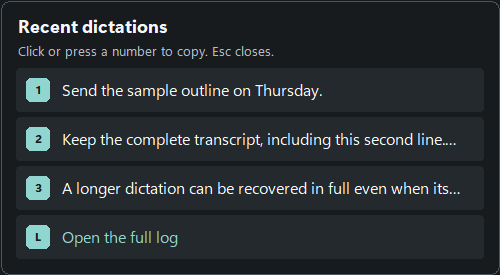
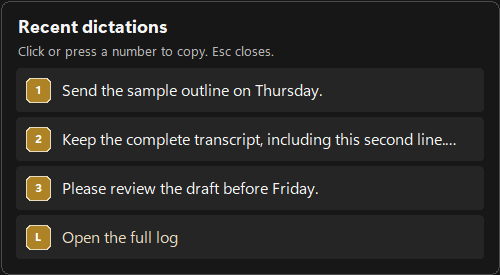
Apply shared gold theme and refresh release documentation

diff --git a/recents.py b/recents.py
@@ -9,7 +9,7 @@ import tkinter as tk
 import tkinter.font as tkfont
 from ctypes import wintypes
 
-from theme import ACCENT, EDGE, HOVER, MUTED, ROW
+from theme import ACCENT, ACTION, ACTION_TEXT, EDGE, HOVER, MUTED, ROW
 from theme import SURFACE as INK
 from theme import TEXT as PAPER
 
@@ -226,15 +226,16 @@ class Recents:
                     cx + chip,
                     cy + chip // 2,
                     chip // 2,
-                    fill=ACCENT,
-                    outline="",
+                    fill=ACTION,
+                    outline=ACCENT,
+                    width=1,
                     tags=tag,
                 )
                 c.create_text(
                     cx + chip // 2,
                     cy - int(1 * s),
                     text=chip_char,
-                    fill=INK,
+                    fill=ACTION_TEXT,
                     font=(disp_family, -int(12 * s), "bold"),
                     tags=tag,
                 )

diff --git a/theme.py b/theme.py
@@ -1,12 +1,14 @@
 """Neutral native UI tokens shared by the tray and recovery popup."""
 
-SURFACE = "#181B1E"
-ROW = "#24292E"
-HOVER = "#323A41"
-EDGE = "#4B555E"
-TEXT = "#F5F7F8"
-MUTED = "#B3BDC5"
-ACCENT = "#90D5CF"
-IDLE = "#66717A"
-RECORDING = "#0F766E"
-PROCESSING = "#2563A6"
+SURFACE = "#171717"
+ROW = "#252525"
+HOVER = "#333333"
+EDGE = "#4B4B4B"
+TEXT = "#F5F5F5"
+MUTED = "#B8B8B8"
+ACCENT = "#E8DBBE"
+ACTION = "#AD8326"
+ACTION_TEXT = "#FFFFFF"  # Approved brand pairing; not an AA small-text contrast claim.
+IDLE = "#777777"
+RECORDING = ACTION
+PROCESSING = ACCENT

diff --git a/dictate.py b/dictate.py
@@ -76,8 +76,9 @@ def _icon_image(color: str) -> Image.Image:
     img = Image.new("RGBA", (64, 64), (0, 0, 0, 0))
     d = ImageDraw.Draw(img)
     d.ellipse((8, 8, 56, 56), fill=color)
-    d.rounded_rectangle((26, 18, 38, 38), radius=6, fill="#FEFCFD")  # mic body
-    d.line((32, 40, 32, 48), fill="#FEFCFD", width=4)  # mic stem
+    glyph = theme.SURFACE if color == COLOR_PROCESSING else theme.TEXT
+    d.rounded_rectangle((26, 18, 38, 38), radius=6, fill=glyph)  # mic body
+    d.line((32, 40, 32, 48), fill=glyph, width=4)  # mic stem
     return img
 
 

diff --git a/DESIGN.md b/DESIGN.md
@@ -2,17 +2,19 @@
 name: Dictate
 description: Native Windows tray utility with a compact transcript recovery popup.
 colors:
-  surface: "#181B1E"
-  row: "#24292E"
-  hover: "#323A41"
-  edge: "#4B555E"
-  text: "#F5F7F8"
-  muted: "#B3BDC5"
-  accent: "#90D5CF"
-  idle: "#66717A"
-  recording: "#0F766E"
-  processing: "#2563A6"
-  tray-glyph: "#FEFCFD"
+  surface: "#171717"
+  row: "#252525"
+  hover: "#333333"
+  edge: "#4B4B4B"
+  text: "#F5F5F5"
+  muted: "#B8B8B8"
+  accent: "#E8DBBE"
+  action: "#AD8326"
+  action-text: "#FFFFFF"
+  idle: "#777777"
+  recording: "#AD8326"
+  processing: "#E8DBBE"
+  tray-glyph: "#F5F5F5"
 typography:
   heading:
     fontFamily: "Segoe UI Variable Display, Segoe UI"
@@ -66,8 +68,8 @@ components:
     rounded: "{rounded.row}"
     height: "44px"
   shortcut:
-    backgroundColor: "{colors.accent}"
-    textColor: "{colors.surface}"
+    backgroundColor: "{colors.action}"
+    textColor: "{colors.action-text}"
     typography: "{typography.shortcut}"
     rounded: "{rounded.shortcut}"
     size: "24px"
@@ -77,15 +79,17 @@ components:
 
 ## Overview
 
-Neutral dark gray surfaces, white text and restrained teal and blue accents. The designed Windows surface is the Recent dictations popup and its tray icon. The separate macOS implementation is headless; this document does not prescribe a macOS screen.
+Neutral dark gray surfaces, white text and SRC gold shortcut chips share the approved theme with Silent Type and Snip. The designed Windows surface is the Recent dictations popup and its tray icon. The separate macOS implementation is headless; this document does not prescribe a macOS screen.
 
-Extracted from `theme.py`, `recents.py`, `dictate.py` and the normal, empty, ten-entry and scaled popup captures in `.impeccable/review/`. `PRODUCT.md` records the approved direction.
+The Windows appearance is owned by theme.py, recents.py and dictate.py. PRODUCT.md records the approved direction. Existing geometry and recovery behavior remain intact.
 
 ## Colors
 
-The accent identifies keyboard shortcuts and the full-log action. Surface, row and hover distinguish the popup from its interactive rows; edge outlines the popup. Text is used for transcripts and the heading, muted for instructions and the empty state.
+Action gold fills keyboard shortcut chips, with white labels and light-gold edges. The light-gold accent identifies the full-log action. Surface, row and hover distinguish the popup from its interactive rows; edge outlines the popup. Text is used for transcripts and the heading, muted for instructions and the empty state.
 
-Tray states use idle gray, recording teal and processing blue, with the tray-glyph color for the microphone. Tooltip text names each state. Windows renders the context menu, scrollbar and notifications using its own controls.
+Tray states use idle gray, recording gold and processing light gold. The microphone uses tray-glyph white on idle and recording, and surface charcoal on processing. Tooltip text names each state. Windows renders the context menu, scrollbar and notifications using its own controls.
+
+White labels on solid gold retain the approved brand exception. This pairing does not establish ordinary small-text contrast compliance. This popup changes the neutral row fill on hover; it has no primary-button hover state.
 
 ## Typography
 
@@ -107,7 +111,7 @@ No custom shadow or animated transition. A thin outline, darker background and l
 
 ## Shapes
 
-Rounded shapes are Tk smooth polygons with the frontmatter radius parameters, not CSS rounded rectangles. Shortcut chips are small rounded squares. The tray graphic is a transparent 64 × 64 image containing a colored circle and white microphone. The transparent window key is a rendering implementation detail, not a palette color.
+Rounded shapes are Tk smooth polygons with the frontmatter radius parameters, not CSS rounded rectangles. Shortcut chips are small rounded squares. The tray graphic is a transparent 64 × 64 image containing a state-colored circle and a contrasting microphone. The transparent window key is a rendering implementation detail, not a palette color.
 
 ## Components
 
@@ -117,12 +121,13 @@ Rounded shapes are Tk smooth polygons with the frontmatter radius parameters, no
 - **Popup:** Escape or loss of focus closes it. Opening and dismissal do not copy text. There is no implemented Tab-driven row focus indicator or screen-reader semantics for the drawn canvas items; keyboard shortcuts are not a claim of full accessibility.
 - **Tray:** colored microphone circle and state tooltip; native context menu. No bespoke settings form or navigation screen exists.
 
-The sidecar contains visual HTML previews of the native components. Those previews are illustrative; Tk source and native captures determine actual geometry and behavior.
+The sidecar describes the native components. Tk source and native captures determine their geometry and behavior.
 
 ## Do's and Don'ts
 
 - Do retain the neutral palette, system type and restrained state colors.
 - Do keep every transcript and the full-log action reachable when the popup exceeds the work area.
 - Do preserve full transcript text behind shortened previews.
-- Don't add personal brand colors, decorative marketing imagery or an unrelated product flow.
+- Do preserve gold chips, light-gold links and neutral hovered rows through redraws.
+- Don't add decorative marketing imagery or an unrelated product flow.
 - Don't treat screenshots, keyboard shortcuts or system-DPI tests as full accessibility or mixed-DPI hardware certification.

diff --git a/README.md b/README.md
@@ -12,7 +12,7 @@ The separate **[macOS port](macos/README.md) is by [Diane Green](https://github.
 
 Requires **Windows 10/11 x64, 64-bit Python 3.12, internet access and your own Groq or OpenAI API key**. Optional cleanup uses an Anthropic API key. Provider charges and limits apply.
 
-1. Download **Dictate-0.1.0-source.zip** from [Releases](https://github.com/diane-blip/dictate-desktop/releases/tag/v0.1.0). Extract it to a permanent folder you control.
+1. Download **Dictate-0.1.1-source.zip** from [Releases](https://github.com/diane-blip/dictate-desktop/releases/tag/v0.1.1). Extract it to a permanent folder you control.
 2. Install [Python 3.12](https://www.python.org/downloads/windows/) with its `py` launcher if needed.
 3. Open PowerShell in the extracted folder:
 
@@ -40,7 +40,7 @@ Quit any other Dictate installation. The single-instance guard prevents duplicat
 3. Speak a short sentence, then release either key and let both keys up.
 4. Keep that window focused until the text arrives. Review it before sending.
 
-The tray icon is **gray when idle, teal while recording, blue while processing**. Its tooltip also names the state. Left-click for **Recent dictations**. Click a row or press its number to copy the complete transcript. Press **L** to open the full log; **Esc** closes the popup. Opening or dismissing it does not copy anything.
+The tray icon is **gray when idle, gold while recording, light gold while processing**. Its tooltip also names the state. Left-click for **Recent dictations**. Click a row or press its number to copy the complete transcript. Press **L** to open the full log; **Esc** closes the popup. Opening or dismissing it does not copy anything.
 
 For later launches, double-click `start-dictate.vbs`. Optional Desktop and login-startup shortcuts:
 

diff --git a/docs/verification.md b/docs/verification.md
@@ -1,5 +1,16 @@
 # Release verification
 
+## 0.1.1 · October 16, 2026
+
+45 default Windows tests and all five controlled desktop integration checks passed. Both platform dependency locks passed advisory audits. The macOS source and Diane Green attribution are unchanged; hosted checks cover that port separately.
+
+The implemented gold theme was compared with the approved native previews at normal and constrained sizes, including populated, empty, hover, focus and error states where applicable. Actions are gold with white labels; links and dark-surface focus are light gold; surfaces and selections are neutral gray. White on gold is an approved visual exception, not a claim of AA small-text contrast. Full screen-reader, high-contrast and mixed-DPI support remain unverified.
+
+Release assets are built from the exact commit, with hosted checks, exported-tree/history secret scans and an unauthenticated SHA-256 download check recorded in the versioned release notes. Existing personal installations are not modified.
+
+## Previous release evidence
+
+
 Dictate 0.1.0, October 15, 2026. Windows x64 / Python 3.12 is the primary tested desktop target. macOS keeps its separate contributed implementation.
 
 ## Windows evidence

diff --git a/PRODUCT.md b/PRODUCT.md
@@ -14,7 +14,7 @@ Windows insertion leaves the clipboard alone. Only deliberately selecting a rece
 
 ## Design brief
 
-Diane requested the same neutral gray/white/black and restrained blue/teal treatment as Silent Type. Retain the compact tray and Recent dictations interaction. Use native system type, clear states and keyboard access. No personal brand colors or decorative product page. This is a scoped restyle of an existing utility, not a new product flow.
+Diane approved the shared public-edition theme with Silent Type and Snip: black, white and neutral gray, gold shortcut chips with white labels, and light-gold links and chip edges. The tray shows gray idle, gold recording and light-gold processing with a dark microphone glyph. White labels on gold retain the approved brand contrast exception. Preserve native system type, popup geometry and recovery interactions. Installed copies and the headless macOS implementation remain outside this Windows theme change.
 
 ## Release boundaries
 

diff --git a/CHANGELOG.md b/CHANGELOG.md
@@ -1,5 +1,12 @@
 # Changelog
 
+## 0.1.1 — 2026-10-16
+
+- Apply the shared gold action and light-gold accent palette on neutral gray surfaces.
+- Separate action, selection and focus colors; preserve native controls and workflows.
+- Refresh design documentation and release screenshots. Dependencies and installation behavior are unchanged.
+
+
 ## 0.1.0 · October 15, 2026
 
 First personal-profile public source release, based on the previously prepared member edition.
